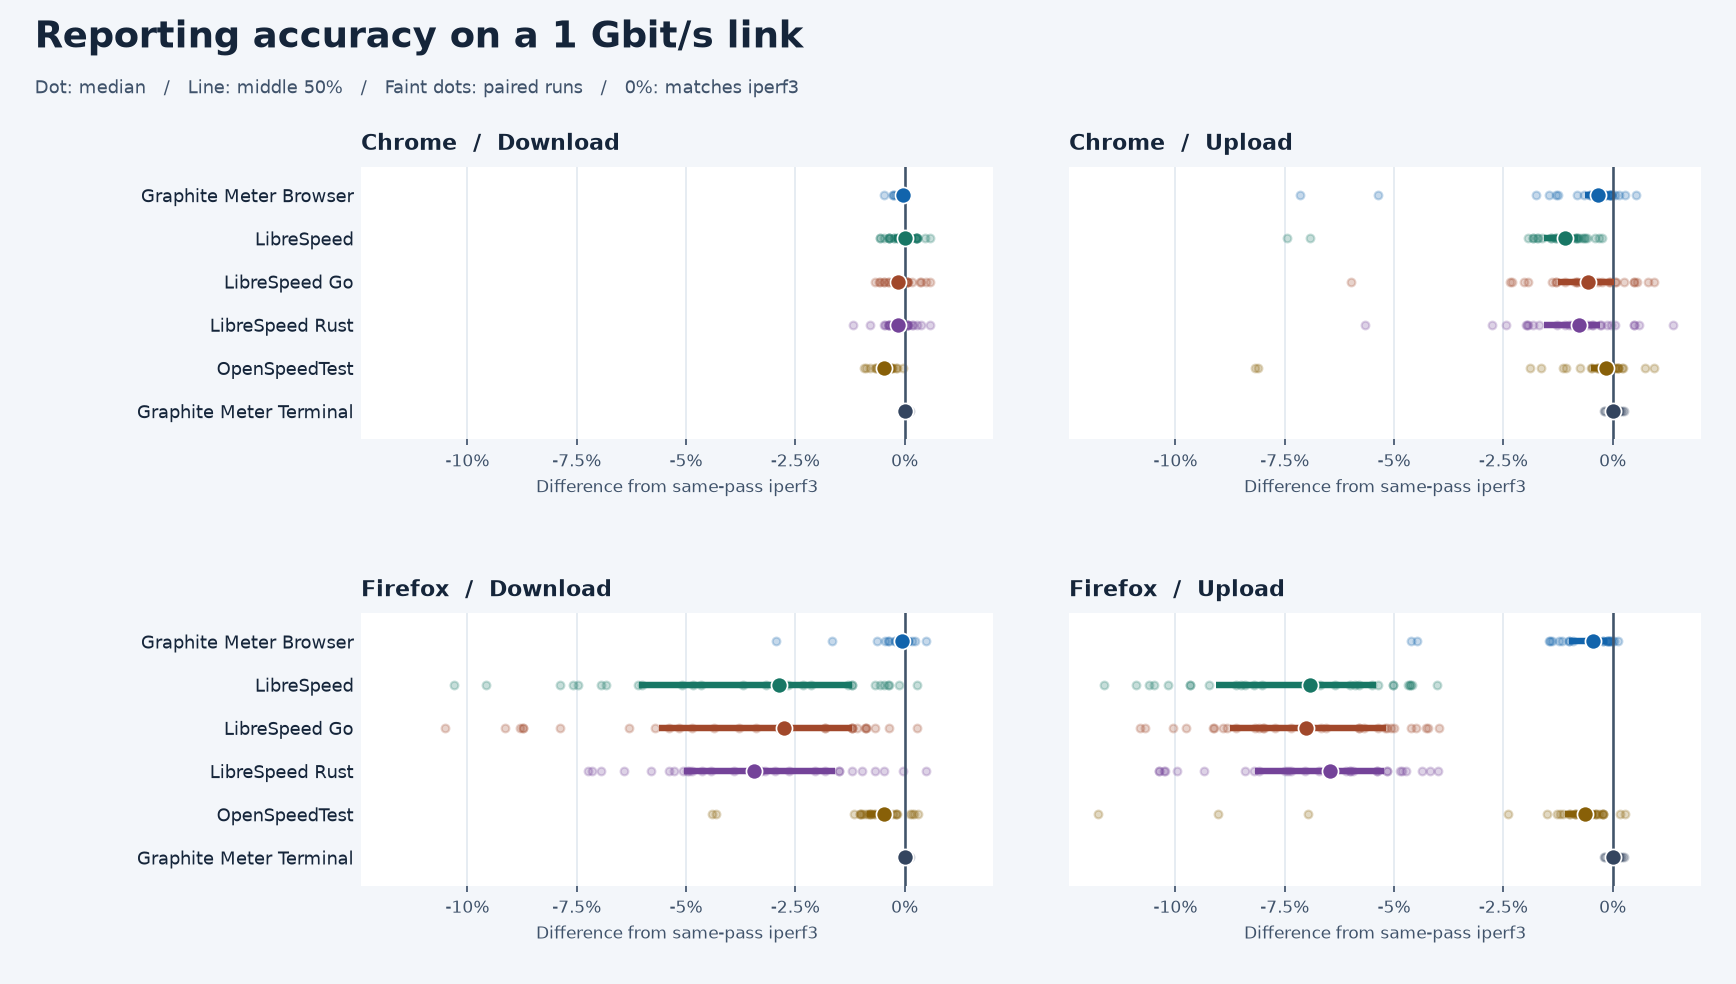
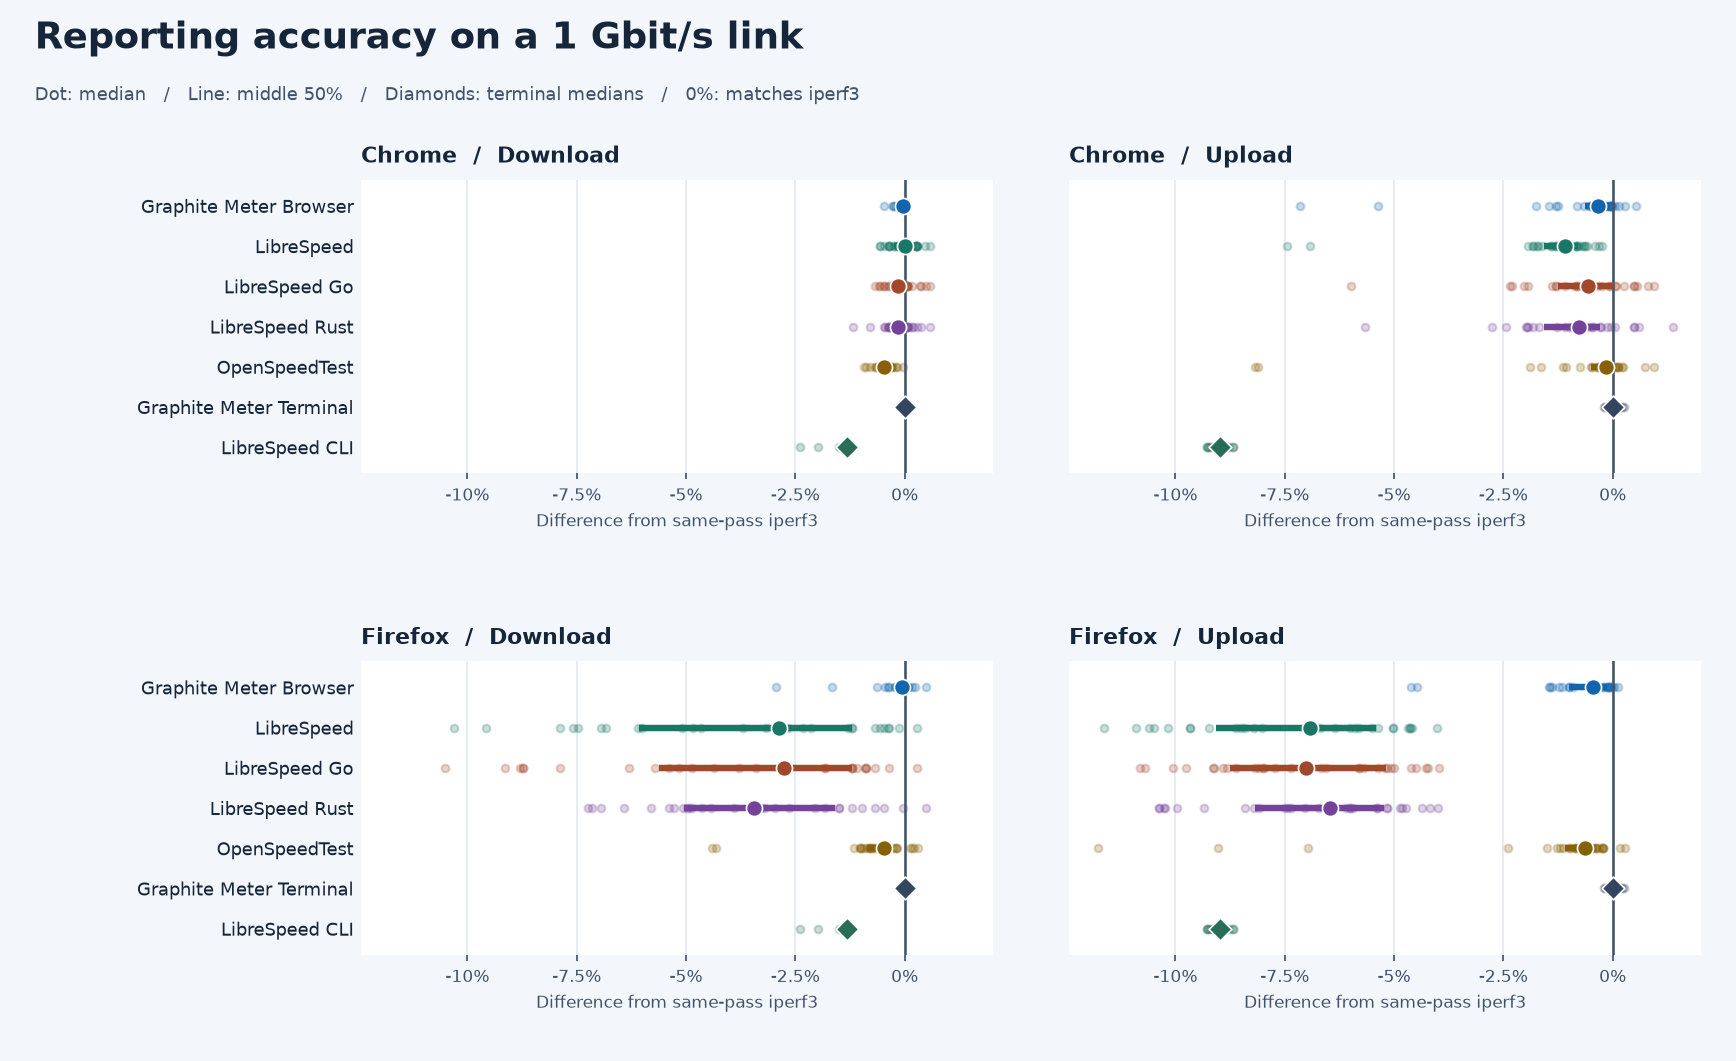
Include both terminal clients in headline comparisons

diff --git a/bench/summarize.js b/bench/summarize.js
@@ -16,7 +16,7 @@ const { manifests, runs, noisy } = readResults(dirs, { withJob: Boolean(process.
 if (process.env.SB_REPORT_DATA) {
   const measurements = runs.filter(({ scenario, tool, browser, reported }) => {
     if (reported.outcome !== "complete") return false;
-    if (scenario === "accuracy-1000") return browser === "chrome" || browser === "firefox" || tool === "iperf3" || tool === "graphite-meter-client";
+    if (scenario === "accuracy-1000") return browser === "chrome" || browser === "firefox" || ["iperf3", "graphite-meter-client", "librespeed-cli"].includes(tool);
     return scenario === "unshaped" && (tool === "graphite-meter-client" || tool === "iperf3");
   });
   writeFileSync(process.env.SB_REPORT_DATA, JSON.stringify(measurements));

diff --git a/bench/report.py b/bench/report.py
@@ -95,8 +95,11 @@ browser_tools = {
     "OpenSpeedTest": ("OpenSpeedTest", "#886008"),
 }
 terminal_tool = "Graphite Meter terminal client"
-terminal_series = ("Graphite Meter Terminal", "#34455f")
-headline_tools = {**browser_tools, terminal_tool: terminal_series}
+terminal_tools = {
+    terminal_tool: ("Graphite Meter Terminal", "#34455f"),
+    "LibreSpeed CLI": ("LibreSpeed CLI", "#276d58"),
+}
+headline_tools = {**browser_tools, **terminal_tools}
 reference_tool = "iperf3 (reference)"
 reference_series = ("iperf3 reference", "#5b6570")
 shaped_tools = {**headline_tools, reference_tool: reference_series}
@@ -104,22 +107,20 @@ groups = tables(summary, "## ")
 
 
 def display(label):
-    if label == "Graphite Meter":
-        return browser_tools[label][0]
-    if label == "Graphite Meter terminal client":
-        return "Graphite Meter Terminal"
-    return label
+    if label in terminal_tools:
+        return terminal_tools[label][0]
+    return browser_tools["Graphite Meter"][0] if label == "Graphite Meter" else label
 
 
 def chrome_key(label):
-    return label if label in (reference_tool, terminal_tool) else f"{label}, chrome"
+    return f"{label}, chrome" if label in browser_tools else label
 
 
-def style_axis(ax, title, unit, *, labels=True):
+def style_axis(ax, title, unit, *, labels=True, tools=headline_tools):
     ax.set_title(title, loc="left", fontsize=10, weight="bold", pad=8)
     ax.set_xlabel(unit, fontsize=8)
-    ax.set_yticks(range(len(headline_tools)), [name for name, _ in headline_tools.values()] if labels else [])
-    ax.set_ylim(len(headline_tools) - .35, -.65)
+    ax.set_yticks(range(len(tools)), [name for name, _ in tools.values()] if labels else [])
+    ax.set_ylim(len(tools) - .35, -.65)
     ax.tick_params(axis="y", labelsize=8.5, length=0)
     ax.tick_params(axis="x", labelsize=8, length=3, labelbottom=True)
     ax.xaxis.set_major_locator(MaxNLocator(nbins=6, min_n_ticks=4))
@@ -180,24 +181,25 @@ for row in measurements:
         if value is not None and ref.get(field) and ref[field] > 0:
             paired_rates[label, row["browser"], field].append(100 * (value / ref[field] - 1))
 
-fig, axes = plt.subplots(2, 2, figsize=(11.2, 6.35), sharex=True)
+fig, axes = plt.subplots(2, 2, figsize=(11.2, 6.85), sharex=True)
 fig.subplots_adjust(left=.208, right=.98, top=.83, bottom=.10, hspace=.64, wspace=.12)
 for row, browser in enumerate(("chrome", "firefox")):
     for col, (direction, field) in enumerate((("Download", "downloadMbit"), ("Upload", "uploadMbit"))):
         ax = axes[row, col]
         ax.axvline(0, color="#41546a", linewidth=1.2)
         for pos, (label, (_, color)) in enumerate(headline_tools.items()):
-            values = paired_rates[label, None if label == terminal_tool else browser, field]
+            values = paired_rates[label, None if label in terminal_tools else browser, field]
             if not values:
                 continue
             center, low, high = quartiles(values)
             ax.scatter(values, [pos] * len(values), color=color, alpha=.24, s=13)
             ax.hlines(pos, low, high, color=color, linewidth=3, zorder=3)
-            ax.scatter(center, pos, color=color, edgecolor="white", linewidth=.8, s=56, zorder=4)
+            ax.scatter(center, pos, color=color, edgecolor="white", linewidth=.8, s=56,
+                       marker="D" if label in terminal_tools else "o", zorder=4)
         style_axis(ax, f"{browser.capitalize()}  /  {direction}", "Difference from same-pass iperf3", labels=col == 0)
         ax.xaxis.set_major_formatter(FuncFormatter(lambda value, _: "0%" if value == 0 else f"{value:+g}%"))
 save_chart(fig, "throughput.png", "Reporting accuracy on a 1 Gbit/s link",
-           "Dot: median   /   Line: middle 50%   /   Faint dots: paired runs   /   0%: matches iperf3")
+           "Dot: median   /   Line: middle 50%   /   Diamonds: terminal medians   /   0%: matches iperf3")
 
 buf = groups["300/30 Mbit/s, 20 ms RTT, 200 ms FIFO"]
 total = int(re.search(r"Runs: (\d+)", summary)[1])
@@ -215,7 +217,7 @@ def pair(rows, label, d=2, u=4, divisor=1):
 
 
 def paired_median(label, browser, field):
-    values = paired_rates[label, None if label == terminal_tool else browser, field]
+    values = paired_rates[label, None if label in terminal_tools else browser, field]
     if not values:
         return "—"
     rounded = round(median(values), 1)
@@ -238,7 +240,7 @@ intro = f"""## Latest GitHub runner results
 
 The upload columns show how closely each tool agrees with iperf3 on an ordinary 1 Gbit/s link, how fast it reports
 on a 10 Gbit/s link, and what it reports on a 100 Mbit/s link with 1% packet loss. Server CPU and memory are from the
-1 Gbit/s test. Throughput and resource figures use default Chrome or the native terminal client.
+1 Gbit/s test. Throughput and resource figures use default Chrome or the native terminal clients.
 
 | Tool or client | 1 Gbit/s upload vs iperf3 (Chrome / Firefox) | 10 Gbit/s upload | Upload with 1% loss | Server upload CPU | Peak server memory |
 | --- | ---: | ---: | ---: | ---: | ---: |
@@ -255,7 +257,7 @@ for result in measurements:
     if result["scenario"] == "accuracy-1000":
         if tool == "openspeedtest":
             openspeed.append(result)
-        if (result["browser"] == "chrome" or tool == "graphite-meter-client") and result.get("serverMemoryPeakBytes") is not None:
+        if (result["browser"] == "chrome" or tool in ("graphite-meter-client", "librespeed-cli")) and result.get("serverMemoryPeakBytes") is not None:
             name = (pins["tools"].get(tool) or pins["clients"][tool])["name"]
             memory[name].append(result["serverMemoryPeakBytes"] / 1e6)
     elif result["scenario"] == "unshaped" and tool in paired:
@@ -267,7 +269,7 @@ for label in headline_tools:
     key = chrome_key(label)
     chrome = paired_median(label, "chrome", "uploadMbit")
     firefox = paired_median(label, "firefox", "uploadMbit")
-    agreement = f"{chrome} (native)" if label == terminal_tool else f"{chrome} / {firefox}"
+    agreement = f"{chrome} (native)" if label in terminal_tools else f"{chrome} / {firefox}"
     fast_upload = speed(fast[key], 4, 1000)
     loss_upload = speed(loss[key], 4)
     cpu_upload = shaped_cpu.get(key, ["", "n/a", "n/a"])[2].split()[0]
@@ -308,7 +310,7 @@ displayed a higher rate. Each VM contributes two passes. Both browser rows show 
 [Hosted run, raw measurements and screenshots]({run_url}){historical}
 
 """
-fig, axes = plt.subplots(1, 3, figsize=(12, 4.05))
+fig, axes = plt.subplots(1, 3, figsize=(12, 4.4))
 fig.subplots_adjust(left=.192, right=.98, top=.78, bottom=.16, wspace=.21)
 for ax, (title, field, unit) in zip(axes, (
     ("Server CPU / download", 1, "CPU seconds per GB"),
@@ -362,7 +364,7 @@ for label in headline_tools:
     peak = f'{median(memory[label]):.0f}' if label in memory else '—'
     load += f'| {display(label)} | {down} / {up} | {cpu_down} | {cpu_up} | {peak} |\n'
 
-chart = f'![Uncapped download and upload, for five Chrome tools and Graphite Meter Terminal]({report}/uncapped.png)'
+chart = f'![Uncapped download and upload for browser tools, terminal clients, and the iperf3 reference]({report}/uncapped.png)'
 load += f'''
 ### Uncapped throughput
 
@@ -376,7 +378,7 @@ windows, and loaded latency enabled. The full tables include the separately meas
 {chart}
 
 Bars show the median. Whiskers span the 25th to 75th percentile of repeated runs for the same setup.
-The browser rows use default Chrome settings. The terminal row uses the native client. The full tables also show
+The browser rows use default Chrome settings. The terminal rows use native clients. iperf3 is the reference. The full tables also show
 client-side browser CPU. Native client CPU is unmeasured.
 
 | Browser tool | Chrome down / up, Gbit/s | Firefox down / up, Gbit/s | Chrome server CPU, s/GB | Chrome server peak, MB |
@@ -390,7 +392,7 @@ load += '''
 | Native client | Down / up, Gbit/s | Server CPU, s/GB | Server peak, MB |
 | --- | ---: | ---: | ---: |
 '''
-for label in ['Graphite Meter terminal client', 'LibreSpeed CLI', 'iperf3 (reference)']:
+for label in (*terminal_tools, reference_tool):
     cells = unshaped[label]
     load += f'| {display(label)} | {gbit(cells[1])} / {gbit(cells[2])} | {cells[3]} | {cells[4]} |\n'
 uncapped_cpu = cpu.get(uncapped_title, {}).get('Graphite Meter terminal client', ['', 'n/a', 'n/a'])
@@ -405,18 +407,18 @@ download bytes and time at the client and upload bytes and time at the server.
 '''
 load += f'\n[Download and upload CPU breakdown for all scenarios and transports]({report}/server-cpu.md)\n\n'
 (report / 'server-cpu.md').write_text(f'# Server CPU by phase, {date}\n\n[Full benchmark report](README.md)\n\n' + phases.split('\n\n', 1)[1])
-fig, axes = plt.subplots(1, 2, figsize=(11.2, 4.1))
+fig, axes = plt.subplots(1, 2, figsize=(11.2, 4.65))
 fig.subplots_adjust(left=.208, right=.98, top=.77, bottom=.16, wspace=.17)
 for ax, (direction, field) in zip(axes, (("Download", 1), ("Upload", 2)), strict=True):
     maximum = 0
-    for pos, (label, (_, color)) in enumerate(headline_tools.items()):
+    for pos, (label, (_, color)) in enumerate(shaped_tools.items()):
         raw = unshaped[chrome_key(label)][field]
         if raw == "n/a":
             continue
         center, low, high = (float(value) / 1000 for value in re.findall(r"[\d.]+", raw))
         maximum = max(maximum, high)
         spread_bar(ax, pos, center, low, high, color, f"{center:.2f}")
-    style_axis(ax, direction, "Gbit/s", labels=field == 1)
+    style_axis(ax, direction, "Gbit/s", labels=field == 1, tools=shaped_tools)
     ax.set_xlim(0, maximum * 1.22 if maximum else 1)
 save_chart(fig, "uncapped.png", "Single-test throughput without shaping",
            "Default Chrome and native terminal   /   Median and middle 50%   /   Separate scales for each direction")

diff --git a/README.md b/README.md
@@ -22,7 +22,7 @@ Tools: Graphite Meter 0.13.4, LibreSpeed 6.3.1, LibreSpeed Go backend 1.1.6, Lib
 
 The upload columns show how closely each tool agrees with iperf3 on an ordinary 1 Gbit/s link, how fast it reports
 on a 10 Gbit/s link, and what it reports on a 100 Mbit/s link with 1% packet loss. Server CPU and memory are from the
-1 Gbit/s test. Throughput and resource figures use default Chrome or the native terminal client.
+1 Gbit/s test. Throughput and resource figures use default Chrome or the native terminal clients.
 
 | Tool or client | 1 Gbit/s upload vs iperf3 (Chrome / Firefox) | 10 Gbit/s upload | Upload with 1% loss | Server upload CPU | Peak server memory |
 | --- | ---: | ---: | ---: | ---: | ---: |
@@ -32,6 +32,7 @@ on a 10 Gbit/s link, and what it reports on a 100 Mbit/s link with 1% packet los
 | LibreSpeed Rust backend | -0.8% / -6.5% | 3.24 Gbit/s | 9.4 Mbit/s | 4.289 s/GB | 23 MB |
 | OpenSpeedTest | -0.2% / -0.6% | 3.38 Gbit/s | 22.4 Mbit/s | 3.714 s/GB | 29 MB |
 | Graphite Meter Terminal | 0.0% (native) | 9.56 Gbit/s | 19.6 Mbit/s | 7.104 s/GB | 17 MB |
+| LibreSpeed CLI | -9.0% (native) | 8.10 Gbit/s | 11.8 Mbit/s | 2.675 s/GB | 68 MB |
 
 ### Shaped throughput
 
@@ -46,6 +47,7 @@ HTTP/1.1. Connection counts can differ between tools.
 | LibreSpeed Rust backend | 955.0 / 948.5 | 9.28 / 3.24 | 16.6 / 9.4 |
 | OpenSpeedTest | 952.0 / 953.8 | 9.46 / 3.38 | 19.3 / 22.4 |
 | Graphite Meter Terminal | 956.4 / 956.4 | 9.56 / 9.56 | 19.7 / 19.6 |
+| LibreSpeed CLI | 943.8 / 869.9 | 9.36 / 8.10 | 11.3 / 11.8 |
 | iperf3 (reference) | 956.4 / 956.3 | 9.56 / 9.56 | 12.9 / 13.1 |
 
 #### Accuracy on the shaped 1 Gbit/s link
@@ -73,6 +75,7 @@ Bars show medians. Whiskers show the middle half of observed runs. Each metric u
 | LibreSpeed Rust backend | 955.0 / 948.5 | 0.321 | 4.289 | 23 |
 | OpenSpeedTest | 952.0 / 953.8 | 0.189 | 3.714 | 29 |
 | Graphite Meter Terminal | 956.4 / 956.4 | 0.209 | 7.104 | 17 |
+| LibreSpeed CLI | 943.8 / 869.9 | 0.268 | 2.675 | 68 |
 
 ### Uncapped throughput
 
@@ -83,10 +86,10 @@ machines and concurrent tests. **Graphite Meter Terminal** runs `graphite-meter-
 --report`. The default path uses streaming HTTP/1.1 with six lanes in each direction, 10-second download and upload
 windows, and loaded latency enabled. The full tables include the separately measured transport variants.
 
-![Uncapped download and upload, for five Chrome tools and Graphite Meter Terminal](results/2026-11-01-ci-run-41295946781/uncapped.png)
+![Uncapped download and upload for browser tools, terminal clients, and the iperf3 reference](results/2026-11-01-ci-run-41295946781/uncapped.png)
 
 Bars show the median. Whiskers span the 25th to 75th percentile of repeated runs for the same setup.
-The browser rows use default Chrome settings. The terminal row uses the native client. The full tables also show
+The browser rows use default Chrome settings. The terminal rows use native clients. iperf3 is the reference. The full tables also show
 client-side browser CPU. Native client CPU is unmeasured.
 
 | Browser tool | Chrome down / up, Gbit/s | Firefox down / up, Gbit/s | Chrome server CPU, s/GB | Chrome server peak, MB |
